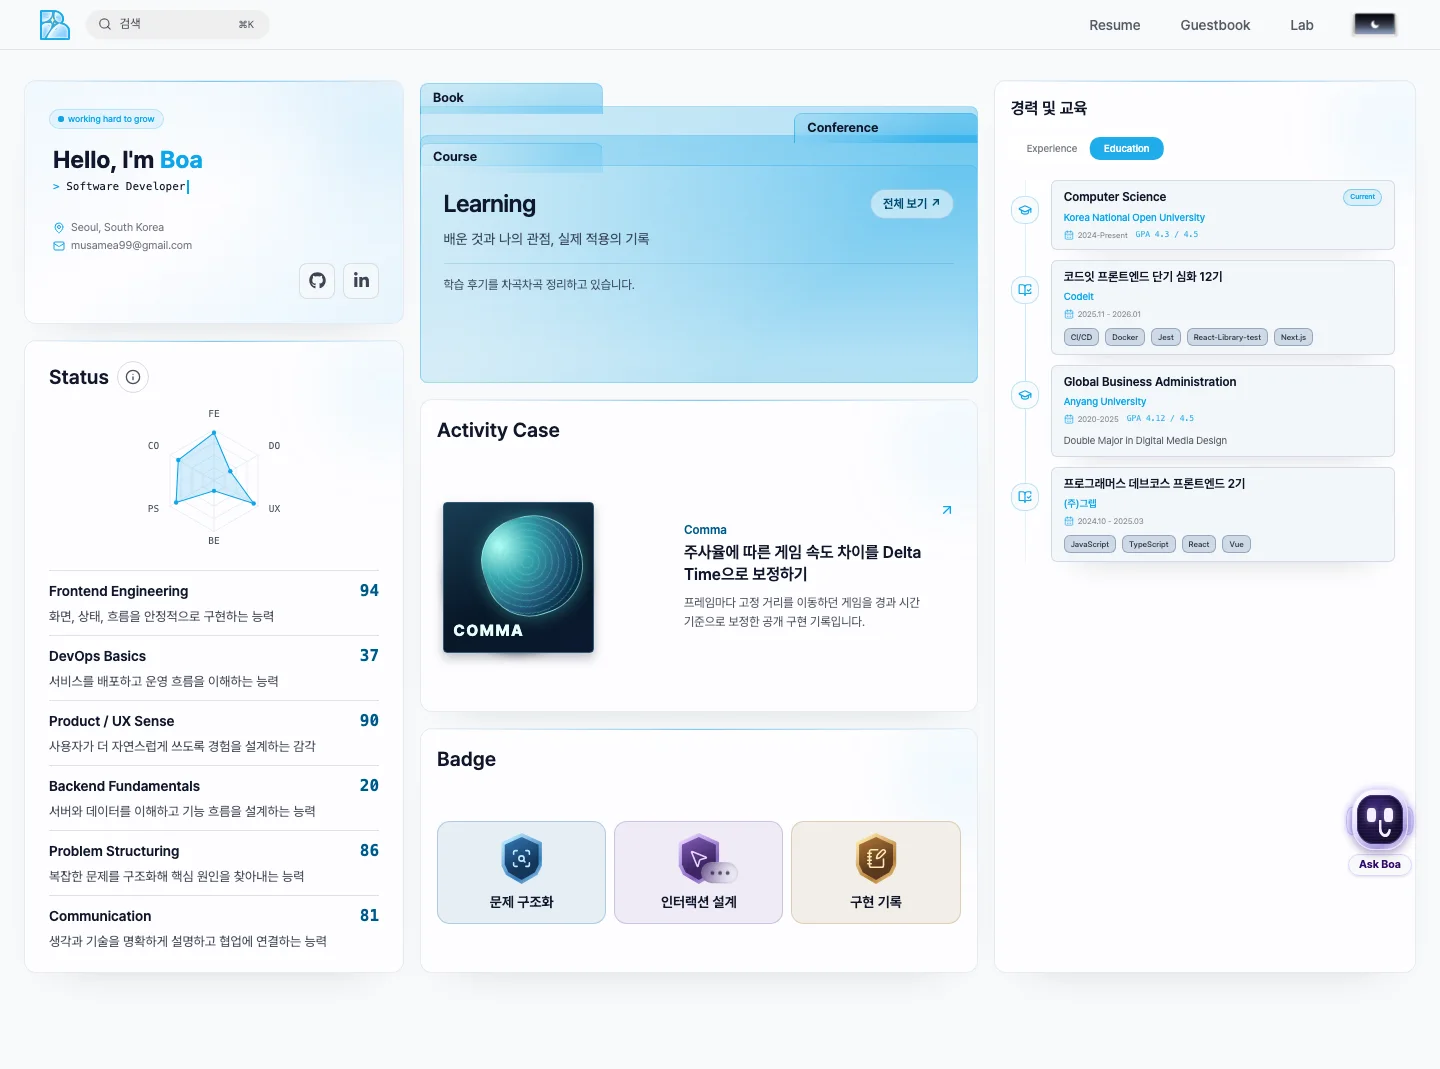
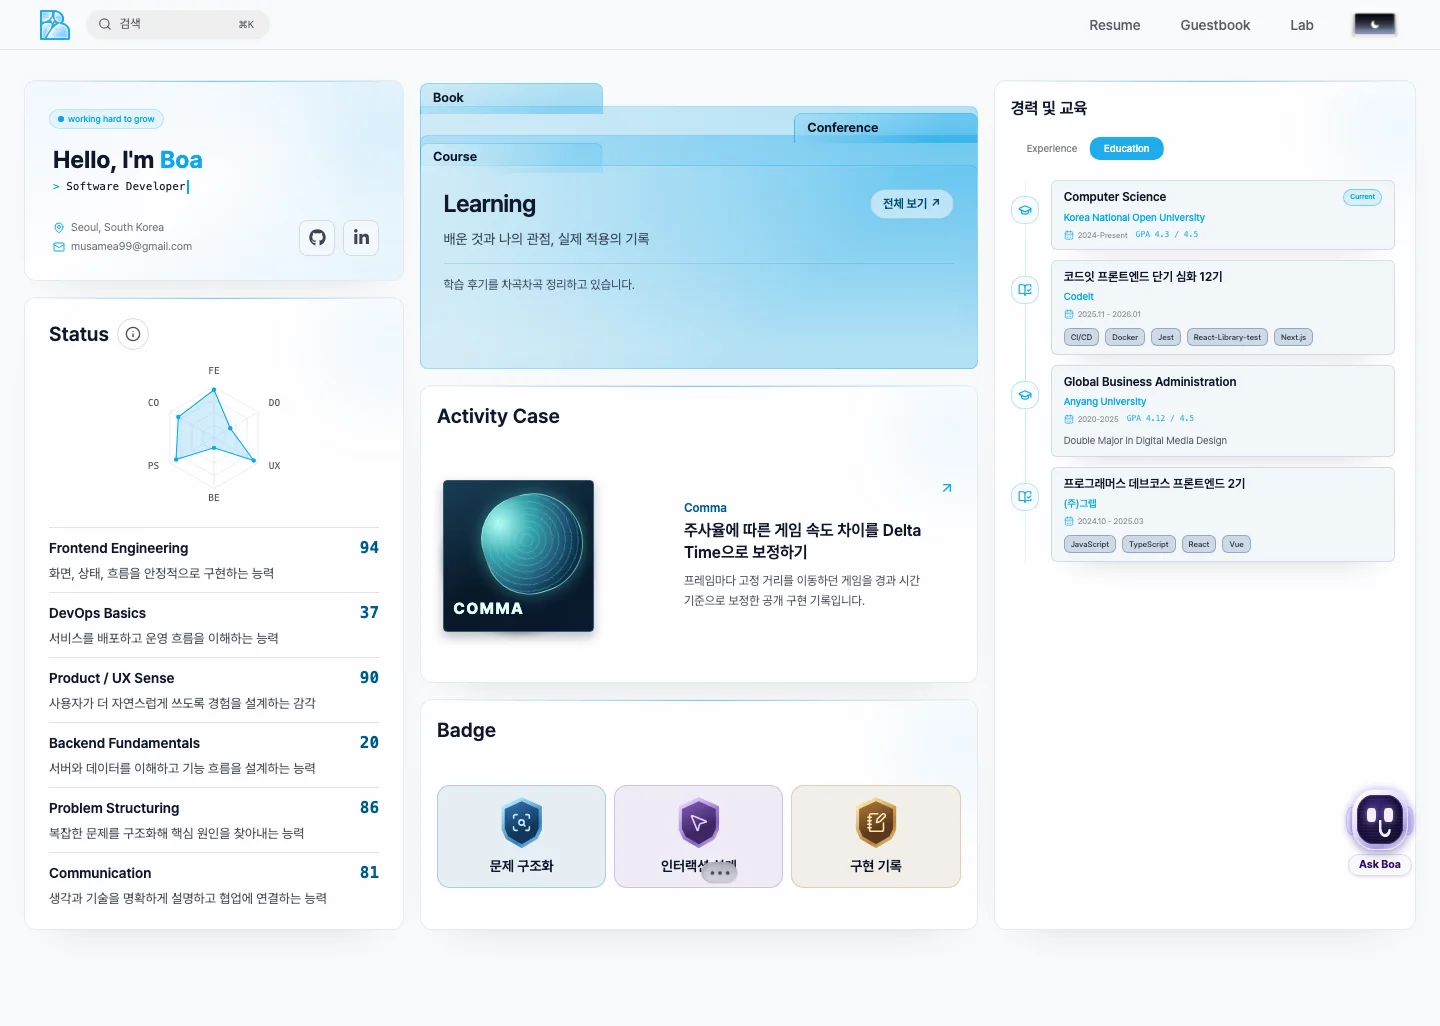
style: align profile contacts and capture full dark resume

diff --git a/src/app/(layout)/(shell)/resume/_components/ProfileHeroCard.tsx b/src/app/(layout)/(shell)/resume/_components/ProfileHeroCard.tsx
@@ -111,40 +111,43 @@ export default function ProfileHeroCard() {
             initial={{ opacity: 0, y: 20 }}
             animate={{ opacity: 1, y: 0 }}
             transition={{ delay: 0.45 }}
-            className="mt-5 pl-1 shrink-0 flex flex-col gap-0.5 text-[10px] text-foreground/58 sm:text-[11px]"
+            className="mt-5 flex shrink-0 items-center justify-between gap-2 pl-1"
           >
-            <span className="flex items-center gap-1.5">
-              <MapPin className="h-3 w-3 shrink-0 text-blue" />
-              <span>{profileHeroContent.location}</span>
-            </span>
+            <div className="flex min-w-0 flex-col gap-0.5 text-[10px] text-foreground/58 sm:text-[11px]">
+              <span className="flex items-center gap-1.5">
+                <MapPin className="h-3 w-3 shrink-0 text-blue" />
+                <span>{profileHeroContent.location}</span>
+              </span>
 
-            <a
-              href={`mailto:${profileHeroContent.email}`}
-              className="flex min-w-0 items-center gap-1.5 transition-colors hover:text-blue"
-            >
-              <Mail className="h-3 w-3 shrink-0 text-blue" />
-              <span className="truncate">{profileHeroContent.email}</span>
-            </a>
+              <a
+                href={`mailto:${profileHeroContent.email}`}
+                className="flex min-w-0 items-center gap-1.5 transition-colors hover:text-blue"
+              >
+                <Mail className="h-3 w-3 shrink-0 text-blue" />
+                <span className="truncate">{profileHeroContent.email}</span>
+              </a>
+            </div>
+
+            <nav aria-label="소셜 프로필" className="flex shrink-0 gap-2">
+              {socialLinks.map(({ label, href }) => {
+                const Icon = socialIcons[label];
+                return (
+                  <a
+                    key={label}
+                    href={href}
+                    aria-label={label}
+                    title={label}
+                    target="_blank"
+                    rel="noreferrer"
+                    className="grid size-9 place-items-center rounded-lg border border-foreground/12 bg-background/65 text-foreground/80 transition-colors hover:border-blue/40 hover:bg-background hover:text-foreground focus-visible:outline-2 focus-visible:outline-offset-2 focus-visible:outline-blue"
+                  >
+                    <Icon size={17} aria-hidden="true" />
+                  </a>
+                );
+              })}
+            </nav>
           </motion.div>
         </div>
-        <nav aria-label="소셜 프로필" className="mt-2 flex justify-end gap-2">
-          {socialLinks.map(({ label, href }) => {
-            const Icon = socialIcons[label];
-            return (
-              <a
-                key={label}
-                href={href}
-                aria-label={label}
-                title={label}
-                target="_blank"
-                rel="noreferrer"
-                className="grid size-9 place-items-center rounded-lg border border-foreground/12 bg-background/65 text-foreground/80 transition-colors hover:border-blue/40 hover:bg-background hover:text-foreground focus-visible:outline-2 focus-visible:outline-offset-2 focus-visible:outline-blue"
-              >
-                <Icon size={17} aria-hidden="true" />
-              </a>
-            );
-          })}
-        </nav>
       </div>
     </section>
   );

diff --git a/e2e/resume.spec.ts b/e2e/resume.spec.ts
@@ -14,6 +14,16 @@ test("Resume keeps profile, status and experience alongside the new collections"
   const socials = page.getByRole("navigation", { name: "소셜 프로필" });
   await expect(socials.getByRole("link", { name: "GitHub" })).toHaveAttribute("href", "https://github.com/swallowedB");
   await expect(socials.getByRole("link", { name: "LinkedIn" })).toHaveAttribute("href", "https://www.linkedin.com/in/boa-choi-5896a9241/");
+  await expect.poll(async () => {
+    const [location, email, icons] = await Promise.all([
+      page.getByText("Seoul, South Korea", { exact: true }).boundingBox(),
+      page.getByRole("link", { name: "musamea99@gmail.com" }).boundingBox(),
+      socials.boundingBox(),
+    ]);
+    if (!location || !email || !icons || icons.x <= email.x + email.width) return Infinity;
+    const contactCenter = (location.y + email.y + email.height) / 2;
+    return Math.abs(icons.y + icons.height / 2 - contactCenter);
+  }).toBeLessThan(2);
   await expect.poll(() => page.getByRole("heading", { name: /Hello, I'm Boa/ }).evaluate((heading) => {
     let opacity = 1;
     for (let element: Element | null = heading; element; element = element.parentElement) {
@@ -47,7 +57,13 @@ test("Resume keeps profile, status and experience alongside the new collections"
     expect(learning!.x).toBeLessThan(experience!.x);
   }
 
+  if (testInfo.project.name === "desktop-dark") {
+    await page.setViewportSize({ width: 1440, height: 1060 });
+  }
   await page.getByRole("heading", { name: /Hello, I'm Boa/ }).scrollIntoViewIfNeeded();
+  if (testInfo.project.name === "desktop-dark") {
+    await expect(page.locator("#profile").getByText("Software Developer", { exact: true })).toBeVisible({ timeout: 10_000 });
+  }
   await testInfo.attach("resume-initial", { body: await page.screenshot({ fullPage: true, animations: "disabled" }), contentType: "image/png" });
   expect(await page.evaluate(() => document.documentElement.scrollWidth <= window.innerWidth)).toBe(true);
 });
